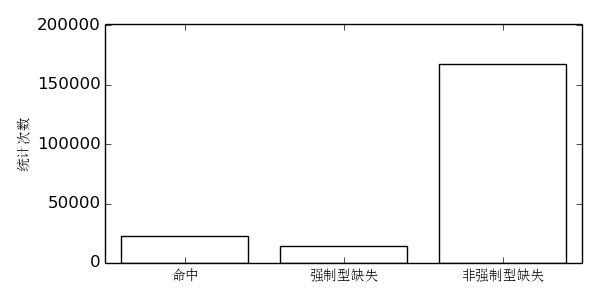
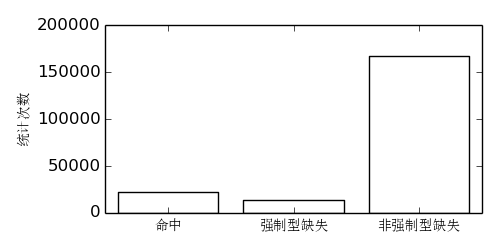
Sync commit

Changed region(s): [[0.03, 0.056, 0.99, 0.952]]

diff --git a/script/drawer.py b/script/drawer.py
@@ -142,8 +142,8 @@ def draw_architecture_compare_v2(fermi_miss_frame, maxwell_miss_frame, title, sa
         index = np.arange(len(bench_index))
 
         ##  Do the plot
-        ax.plot(index + 0.5, fermi_sub_frame['profiler_miss'], linestyle = "-", color = "k", marker = 'o', label = "费米架构")
-        ax.plot(index + 0.5, maxwell_sub_frame['profiler_miss'], linestyle = "-", color = "k", marker = 's', label = "麦克斯韦架构")
+        ax.plot(index + 0.5, fermi_sub_frame['profiler_miss'] * 100, linestyle = "-", color = "k", marker = 'o', label = "费米架构")
+        ax.plot(index + 0.5, maxwell_sub_frame['profiler_miss'] * 100, linestyle = "-", color = "k", marker = 's', label = "麦克斯韦架构")
         
         ax.tick_params(axis='both', which='both', labelsize=10)
         ax.set_xlim(0, len(bench_index))
@@ -179,8 +179,8 @@ def draw_architecture_model_compare_v2(fermi_miss_frame, maxwell_miss_frame, tit
         index = np.arange(len(bench_index))
 
         ##  Do the plot
-        ax.plot(index + 0.5, fermi_sub_frame['model_miss'], linestyle = "-", color = "k", marker = 'o', label = "费米架构")
-        ax.plot(index + 0.5, maxwell_sub_frame['model_miss'], linestyle = "-", color = "k", marker = 's', label = "麦克斯韦架构")
+        ax.plot(index + 0.5, fermi_sub_frame['model_miss'] * 100, linestyle = "-", color = "k", marker = 'o', label = "费米架构")
+        ax.plot(index + 0.5, maxwell_sub_frame['model_miss'] * 100, linestyle = "-", color = "k", marker = 's', label = "麦克斯韦架构")
         
         ax.tick_params(axis='both', which='both', labelsize=10)
         ax.set_xlim(0, len(bench_index))
@@ -554,7 +554,7 @@ def draw_miss_type(hit_count, comp_miss_count, uncomp_miss_count, save_path):
     plt.ylabel('统计次数', fontproperties = cn_font)
 
     fig = plt.gcf()
-    fig.set_size_inches(6, 3)
+    fig.set_size_inches(5, 2.5)
     fig.set_dpi(72)
     fig.set_tight_layout(True)
     fig.savefig(save_path)
@@ -578,7 +578,7 @@ def draw_distance_histo(distance_values, distance_counts, save_path):
     plt.ylabel('出现次数', fontproperties = cn_font)
 
     fig = plt.gcf()
-    fig.set_size_inches(6, 3)
+    fig.set_size_inches(5, 2.5)
     fig.set_dpi(72)
     fig.set_tight_layout(True)
     fig.savefig(save_path)
@@ -600,7 +600,7 @@ def draw_pc_histo(pcs, pc_hit_counts, pc_miss_counts, save_path):
     plt.legend(loc = 'lower left', fontsize = 'small', ncol = 2, bbox_to_anchor = (0, 1), prop = cn_font)
 
     fig = plt.gcf()
-    fig.set_size_inches(6, 3)
+    fig.set_size_inches(5, 2.5)
     fig.set_dpi(72)
     fig.set_tight_layout(True)
     fig.savefig(save_path)
